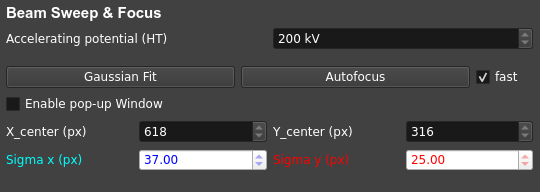
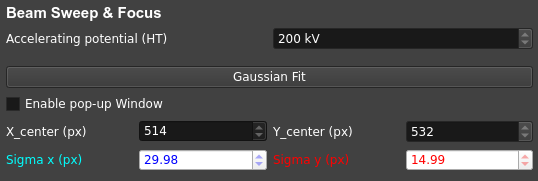
Update the extended section

diff --git a/Jungfrau-GUI.rst b/Jungfrau-GUI.rst
@@ -172,12 +172,6 @@ In this section, the user can define the colormap to map scalar data values to c
 ``Sigma y (px)``
     Length of the minor (shorter) axis of the fitted ellipse.
 
-``Autofocus``
-    Sweeps IL1 (Diff-focus) and ILstig values in order to focus the beam i.e. (i) most round and (ii) smallest possible probe in Diffraction mode.
-
-``fast``
-    Checkbox that allows an optimized focusing algorithm to run when the ``Autofocus`` is clicked-on [**Still under progress**]
-
 **C. Rotation/Record & Stage Control**
 
 .. figure:: images/jf_gui_tem_controls_3.png
@@ -293,7 +287,7 @@ In this section, the user can define the colormap to map scalar data values to c
     Dislays the state of the XDS post-processing of the collected data on the server.    
 
 **Tips / Known bugs, as of 18 Apr 2025**
-"""""""""""""""""""""""
+""""""""""""""""""""""""""""""""""""""""
 
 .. note::
 
@@ -301,49 +295,69 @@ In this section, the user can define the colormap to map scalar data values to c
     - If ``Rotation/Record`` stops at the start of rotation, manually reconnect with TEM by clicking ``Check TEM Connection`` and then click ``Rotation/Record`` (it should display ``Stop`` in this case) a few times, intermittently. The status of GUI will be restored and the data-collection can be started again. This error should happen before starting the data-recording and no error files are saved in the server.
 
 **Extended Functions**
-"""""""""""""""""""""""
+""""""""""""""""""""""
 
 Following features are activated with '-e' option. All of them are under development and testing. **Please use them with special care.**
-
-.. figure:: images/jf_gui_tem_controls_1.png
-   :alt: Screenshot of the Connection to TEM section
-   :width: 380px
-   :align: center
 
 ``Click-on-Centering``
     When the TEM-stage is tilted, the centering works by adjusting **the stage Z-height** with given coordinates. It is currently recommended that this adjustment be used only for tilts of 10-20 deg., because of the larger error from the 2D projection with higher tilt.
 
-.. image:: images/jf_gui_visualization_panel_2_ex.png
-   :alt: Screenshot of the Streaming & Contrast section with option
-   :width: 380px
-   :align: center
+    .. figure:: images/jf_gui_tem_controls_1.png
+        :alt: Screenshot of the Connection to TEM section
+        :width: 380px
+        :align: center
+
 
 ``Frames summed``
-    Changes the summation frames, only for rotation data-collection. Default value: 100
+    Changes the summation frames, only for rotation data-collection.
+    Default value: 100
 
-.. image:: images/jf_gui_visualization_panel_4_ex.png
-   :alt: Screenshot of the Detector section with option
-   :width: 380px
-   :align: center
+    .. image:: images/jf_gui_visualization_panel_2_ex.png
+        :alt: Screenshot of the Streaming & Contrast section with option
+        :width: 380px
+        :align: center
+
 
 ``Calc Brightness on Detector/Sample``
-    Estimates the number of incoming electrons as the value of the most frequent bin of image histogram and convert it pA/cm^2/s unit (on detector) and e^-/Å^2/s (on sample) unit. As this function expects electrons are directly hits the detector surface, no large particles should include in the illumination area (usually tolerant of minor occupation by lacey-grid threads). These values are saved also in the hdf file as metadata.
+    Estimate the number of incoming electrons as the value of the most frequent bin of image histogram and convert it to **pA cm⁻² s⁻¹** (detector) and **e⁻ Å⁻² s⁻¹** (sample).
 
-.. figure:: images/jf_gui_tem_controls_3_ex1.png
-   :alt: Screenshot of the Rotation & Stage Control section with option
-   :width: 380px
-   :align: center
+    .. image:: images/jf_gui_visualization_panel_4_ex.png
+        :alt: Screenshot of the Detector section with option
+        :width: 380px
+        :align: center
+
+    .. note::
+        This function assumes that electrons strike the detector surface directly, so the illuminated area should not contain large particles (minor lacey‑grid threads are usually tolerated).  
+        The calculated brightness and dose‑rate values are also stored in the HDF5 file as metadata.
+
+``Autofocus``
+    Sweeps IL1 (Diff-focus) and ILstig values in order to focus the beam i.e. (i) most round and (ii) smallest possible probe in Diffraction mode.
+
+    .. figure:: images/jf_gui_tem_controls_2_ex.png
+        :alt: Screenshot of the Beam Sweep & Focus section
+        :width: 380px
+        :align: center
+    
+``fast``
+    Checkbox that allows an optimized focusing algorithm to run when the ``Autofocus`` is clicked-on [**Still under progress**]
+
 
 ``mirror``
     Automatically set the target angle assuming the symmetric stage-rotation, with a small margin (currently 2 deg.) for safety.
 
-.. figure:: images/jf_gui_tem_controls_3_ex2.png
-   :alt: Screenshot of the Rotation & Stage Control section with option
-   :width: 380px
-   :align: center
+    .. figure:: images/jf_gui_tem_controls_3_ex1.png
+        :alt: Screenshot of the Rotation & Stage Control section with option
+        :width: 380px
+        :align: center
+
 
 ``Move Screen``
     Moves up/down the screen of TEM. This requires the updated version of the relay-server at TEM.
+
+    .. figure:: images/jf_gui_tem_controls_3_ex2.png
+        :alt: Screenshot of the Rotation & Stage Control section with option
+        :width: 380px
+        :align: center
     
 ``Snapshot``
     Takes a snapshot of current view and display the down-sized image in the sideview. This is intended to be used for temporal memory (will not be saved in any files).
